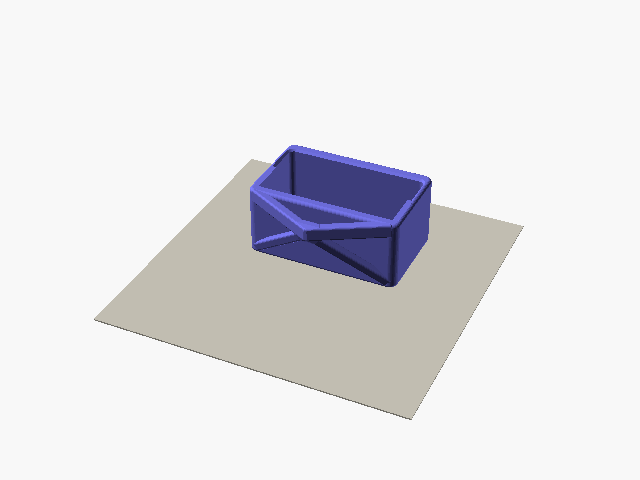
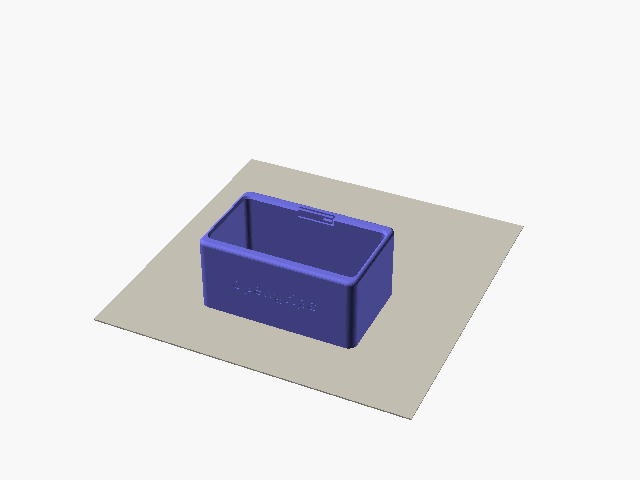
feat: print the housing on its front with one flat anchor plate

Changed region(s): [[0.3125, 0.2812, 0.6875, 0.75]]

diff --git a/web/static/app.js b/web/static/app.js
@@ -11,7 +11,7 @@ let mode = "simple";
 try { mode = localStorage.getItem("opengrips-mode") || "simple"; } catch (e) { /* storage blocked */ }
 const kit = { items: [], sel: 0 };   // items is replaced on Undo, so nothing keeps a reference to it
 const cur = () => kit.items[kit.sel];
-let partnerKey = "auto";   // "none", "auto" (first match in the kit), "kit:<n>" or "std:<anchor>"
+let partnerKey = "auto";   // "none", "auto" (first match in the kit), "kit:<n>" or "std:<part>"
 
 // ---------- scene
 // without WebGL or three.js the page still works: the kit, the editor and the downloads need no 3D
@@ -103,7 +103,6 @@ const insertDef = (id) => cat.inserts.find((i) => i.id === id);
 const defaults = (params) => Object.fromEntries(params.map((p) => [p.name, p.default]));
 const defOf = (it) => (it.type === "housing" ? cat.housing : insertDef(it.insertId));
 const partsOf = (it) => defOf(it).parts;
-const anchors = () => cat.housing.params.find((p) => p.name === "anchor").options;
 
 function newHousing(values) { return { type: "housing", values: Object.assign(defaults(cat.housing.params), values || {}) }; }
 function newInsert(id, values) {
@@ -113,10 +112,7 @@ function newInsert(id, values) {
 // names come from the values, so they follow every slider
 function nameOf(it) {
   const v = it.values;
-  if (it.type === "housing") {
-    const a = anchors().find((o) => o.value === v.anchor);
-    return a.label.split(" (")[0] + " housing";
-  }
+  if (it.type === "housing") return "Housing";
   const ang = v.edge_angle > 0 ? ` incut ${v.edge_angle}°` : v.edge_angle < 0 ? ` sloper ${-v.edge_angle}°` : "";
   if (it.insertId === "edge") return `${v.slot_d} mm${v.ergo ? " ergo" : ""} edge${ang}`;
   const pockets = (n, w) => `${n > 1 ? n + " × " : ""}${{ 22: "mono", 40: "two-finger", 58: "three-finger" }[w] || `${w} mm`} pocket`;
@@ -223,8 +219,7 @@ function partnerOptions(it) {
   // group: "kit" (your kit) or "std" (standard parts); the dropdown shows them under those headings
   const opts = [{ key: "none", label: "Nothing, just this" }];
   kit.items.forEach((x, n) => { if (x.type !== it.type) opts.push({ key: `kit:${n}`, group: "kit", label: nameOf(x), item: x }); });
-  if (it.type === "insert") anchors().forEach((a) => opts.push({ key: `std:${a.value}`, group: "std", label: `${a.label.split(" (")[0]} housing`,
-                                                               item: newHousing({ anchor: a.value }) }));
+  if (it.type === "insert") opts.push({ key: "std:housing", group: "std", label: "Housing", item: newHousing() });
   else opts.push({ key: "std:edge", group: "std", label: "20 mm edge", item: newInsert("edge") });
   return opts;
 }
@@ -253,14 +248,12 @@ function shown(p, group) {
 }
 
 // small line pictures for choices, by the catalog's "icon" name: an edge seen from the side,
-// a pocket seen from the front, a housing anchor or wall
+// a pocket seen from the front
 const ICON = {
   flat: '<path d="M3 7v11M3 12h14a3 3 0 0 1 3 3v3"/>',
   ergo: '<path d="M3 7v11M3 12h4q5 3 10 0a3 3 0 0 1 3 3v3"/>',
   incut: '<path d="M3 7v11M3 14l14-3a3 3 0 0 1 3 3v4"/>',
   sloper: '<path d="M3 7v11M3 9q12 0 17 9"/>',
-  pyramid: '<path d="M4 5h16M4 5l8 14 8-14M9 5l3 14 3-14"/>',
-  keel: '<path d="M5 5h14l-3 14H8z"/><circle cx="12" cy="11" r="2.5"/>',
   mono: '<rect x="2" y="6" width="20" height="12" rx="2"/><rect x="9" y="9" width="6" height="6" rx="2"/>',
   two: '<rect x="2" y="6" width="20" height="12" rx="2"/><rect x="7" y="9" width="10" height="6" rx="2"/>',
   three: '<rect x="2" y="6" width="20" height="12" rx="2"/><rect x="5" y="9" width="14" height="6" rx="2"/>',

diff --git a/web/catalog.py b/web/catalog.py
@@ -50,20 +50,14 @@ HOUSING = {
     "id": "housing",
     "name": "Housing",
     "parts": [{"part": "housing", "name": "Housing",
-               "supports": "supports under the anchor and the lips", "settings": SOLID}],
+               "supports": "no supports", "settings": SOLID + " · plate 100%"}],
     "params": [
-        choice("anchor", "Anchor", [
-            {"value": "pyramid", "icon": "pyramid", "label": "Pyramid (four bars to a point)"},
-            {"value": "keel", "icon": "keel", "label": "Keel (plate with a hole)"},
-        ], "pyramid", help="Every anchor holds the carabiner right under the grip, so the edge should stay level. Not measured yet.", simple=True),
-        num("bar_angle", "Bar angle", 20, 40, 1, 25, unit="°", help="How steep the pyramid bars rise."),
-        num("keel_hole", "Hole size", 13, 20, 0.5, 16, help="Carabiner hole diameter in the keel."),
+        num("keel_hole", "Hole size", 13, 20, 0.5, 16, help="Carabiner hole diameter in the keel, at its narrowest. It holds the carabiner right under the grip, so the edge should stay level. Not measured yet.", simple=True),
         num("top_t", "Top wall", 6, 12, 0.5, 8, help="The insert presses up on it. Thicker is stiffer and heavier."),
         num("floor_t", "Floor", 8, 12, 0.5, 8, help="Ties the anchor to the walls."),
         num("corner", "Corner radius", 3, 12, 0.5, 6, help="Rounding of the housing corners, seen from the front."),
     ],
-    "show_if": {"bar_angle": ["anchor", "pyramid"], "keel_hole": ["anchor", "keel"]},
-    "cards": [card("Hanging", ["anchor", "bar_angle", "keel_hole"], "how the housing holds the carabiner"),
+    "cards": [card("Hanging", ["keel_hole"], "how the housing holds the carabiner"),
               card("Walls", ["top_t", "floor_t", "corner"], "the box the inserts slide into")],
 }
 

diff --git a/tools/check_parts.py b/tools/check_parts.py
@@ -6,7 +6,7 @@ Engines: native renders with the openscad on your PATH. wasm renders with the We
 the configurator uses (tools/render_wasm.mjs, needs node), so it checks the files people download.
 The default is both.
 
-Cases: every anchor, every preset, the corners of the edge, pocket and flip ranges in web/catalog.py,
+Cases: the housing, every preset, the corners of the edge, pocket and flip ranges in web/catalog.py,
 and the fit test.
 Checks: one watertight body. Edges and pockets also keep their depth, a floor under the slot, a
 rail over the slot at the face, a wall under the size mark, and a wall between the slot end and
@@ -37,14 +37,10 @@ MIN_ROOM = 16    # least finger room in a flip insert slot: the lowest slot_h an
 def cases():
     """(part, params) pairs to render."""
     out = []
-    anchor = next(p for p in catalog.HOUSING["params"] if p["name"] == "anchor")
-    for o in anchor["options"]:
-        out.append(("housing", {"anchor": o["value"]}))
-    # each housing setting at both ends, with the anchor it belongs to
+    out.append(("housing", {}))
+    # each housing setting at both ends
     for p in catalog.HOUSING["params"]:
-        if p["type"] == "number":
-            a_for = catalog.HOUSING["show_if"].get(p["name"], ["anchor", anchor["default"]])[1]
-            out += [("housing", {"anchor": a_for, p["name"]: v}) for v in (p["min"], p["max"])]
+        out += [("housing", {p["name"]: v}) for v in (p["min"], p["max"])]
     # the roller and its frame at the smallest and largest diameter
     roll_d = next(p for i in catalog.INSERTS if i["id"] == "roller" for p in i["params"] if p["name"] == "roll_d")
     out += [(part, {"roll_d": v}) for part in ("insert_roller", "roller") for v in (roll_d["min"], roll_d["max"])]

diff --git a/PRINTING.md b/PRINTING.md
@@ -16,13 +16,15 @@ Print everything in PETG. PLA gets brittle in the cold and slowly bends when it'
 
 Use a 0.4 mm nozzle and 0.2 mm layers. These parts take your whole pull, so don't go below these settings to save time.
 
+The anchor plate under the housing carries the whole pull through the walls around its hole. In your slicer, put a modifier on the plate and give it 100% infill.
+
 ## Which way up
 
 Each part has one right way up. It keeps the load running along the layers and the grip smooth. The files from the configurator already sit this way, so you only need to slice them.
 
 | Part | On the bed | Supports |
 | --- | --- | --- |
-| Housing | On its back, pocket opening up | Automatic, under the anchor and the front lips |
+| Housing | On its front, anchor plate flat on the bed | None |
 | Edge or pocket insert | Upside down, top face down | Only under the slot floor |
 | Two-sided insert | On its back, front up | None |
 | Roller frame | Upright, floor down | None |
@@ -53,8 +55,7 @@ I sliced the default parts in PrusaSlicer 2.9.6 with the settings above, PETG at
 
 | Part | Filament |
 | --- | --- |
-| Housing, pyramid anchor | 93 g |
-| Housing, keel anchor | 90 g |
+| Housing | 90 g |
 | Edge insert, 20 mm | 87 g |
 | Pocket insert, three-finger | 88 g |
 | Two-sided insert, 20 and 10 mm edges | 87 g |
@@ -63,7 +64,7 @@ I sliced the default parts in PrusaSlicer 2.9.6 with the settings above, PETG at
 | Roller, straight | 30 g |
 | Printed axle | 17 g |
 
-Automatic supports add about 18 g to the pyramid housing. A housing and one edge insert come to about 180 g, so a 1 kg spool gets you a housing and about ten inserts.
+A housing and one edge insert come to about 180 g, so a 1 kg spool gets you a housing and about ten inserts.
 
 ## The fit test
 

diff --git a/README.md b/README.md
@@ -24,15 +24,15 @@ This is a prototype, and I haven't load-tested it yet. Print and use it at your 
 - Two-sided inserts: any edge or pocket insert can get a second grip on its underside. Each grip is a flat or ergo edge or a row of pockets, 6 to 30 mm deep. Turn the insert over to switch.
 - Pockets: mono, two-finger, three-finger, or up to three side by side.
 - Rollers: unlevel or straight.
-- Two anchors under the housing: a pyramid of four bars, or a keel plate with a hole.
+- An anchor plate under the front of the housing, with a hole for the carabiner.
 
-Every anchor holds the carabiner right under the grip, so the edge should stay level when you pull. I haven't measured that yet.
+The anchor holds the carabiner right under the grip, so the edge should stay level when you pull. I haven't measured that yet.
 
 ![A two-finger pocket in the keel housing](docs/img/configurator-pocket.png)
 
 ## Printing
 
-Print everything in PETG. The housing and two-sided inserts go on their backs, the roller frame stands upright, and the edge and pocket inserts go upside down. The files you download already sit that way. A housing and one edge insert take about 180 g of filament.
+Print everything in PETG. The housing stands on its front, the two-sided inserts go on their backs, the roller frame stands upright, and the edge and pocket inserts go upside down. The files you download already sit that way. A housing and one edge insert take about 180 g of filament.
 
 The [printing guide](PRINTING.md) has the settings, where the supports go, and how to check the fit.
 

diff --git a/TODO.md b/TODO.md
@@ -1,7 +1,7 @@
 # To do
 
 - Photo of a printed kit and a short video of a pull, for the README.
-- Load-test each anchor to failure. Publish the load, how it failed, and the material, orientation, walls and infill.
-- Measure edge pitch under load, for each anchor and for shallow, deep and ergo edges.
+- Load-test the housing to failure. Publish the load, how it failed, and the material, orientation, walls and infill.
+- Measure edge pitch under load, for shallow, deep and ergo edges.
 - Real filament grams and print times from a printed kit, to check the slicer numbers in PRINTING.md.
 - Check the 0.3 mm insert clearance on a few printers with the fit test.
